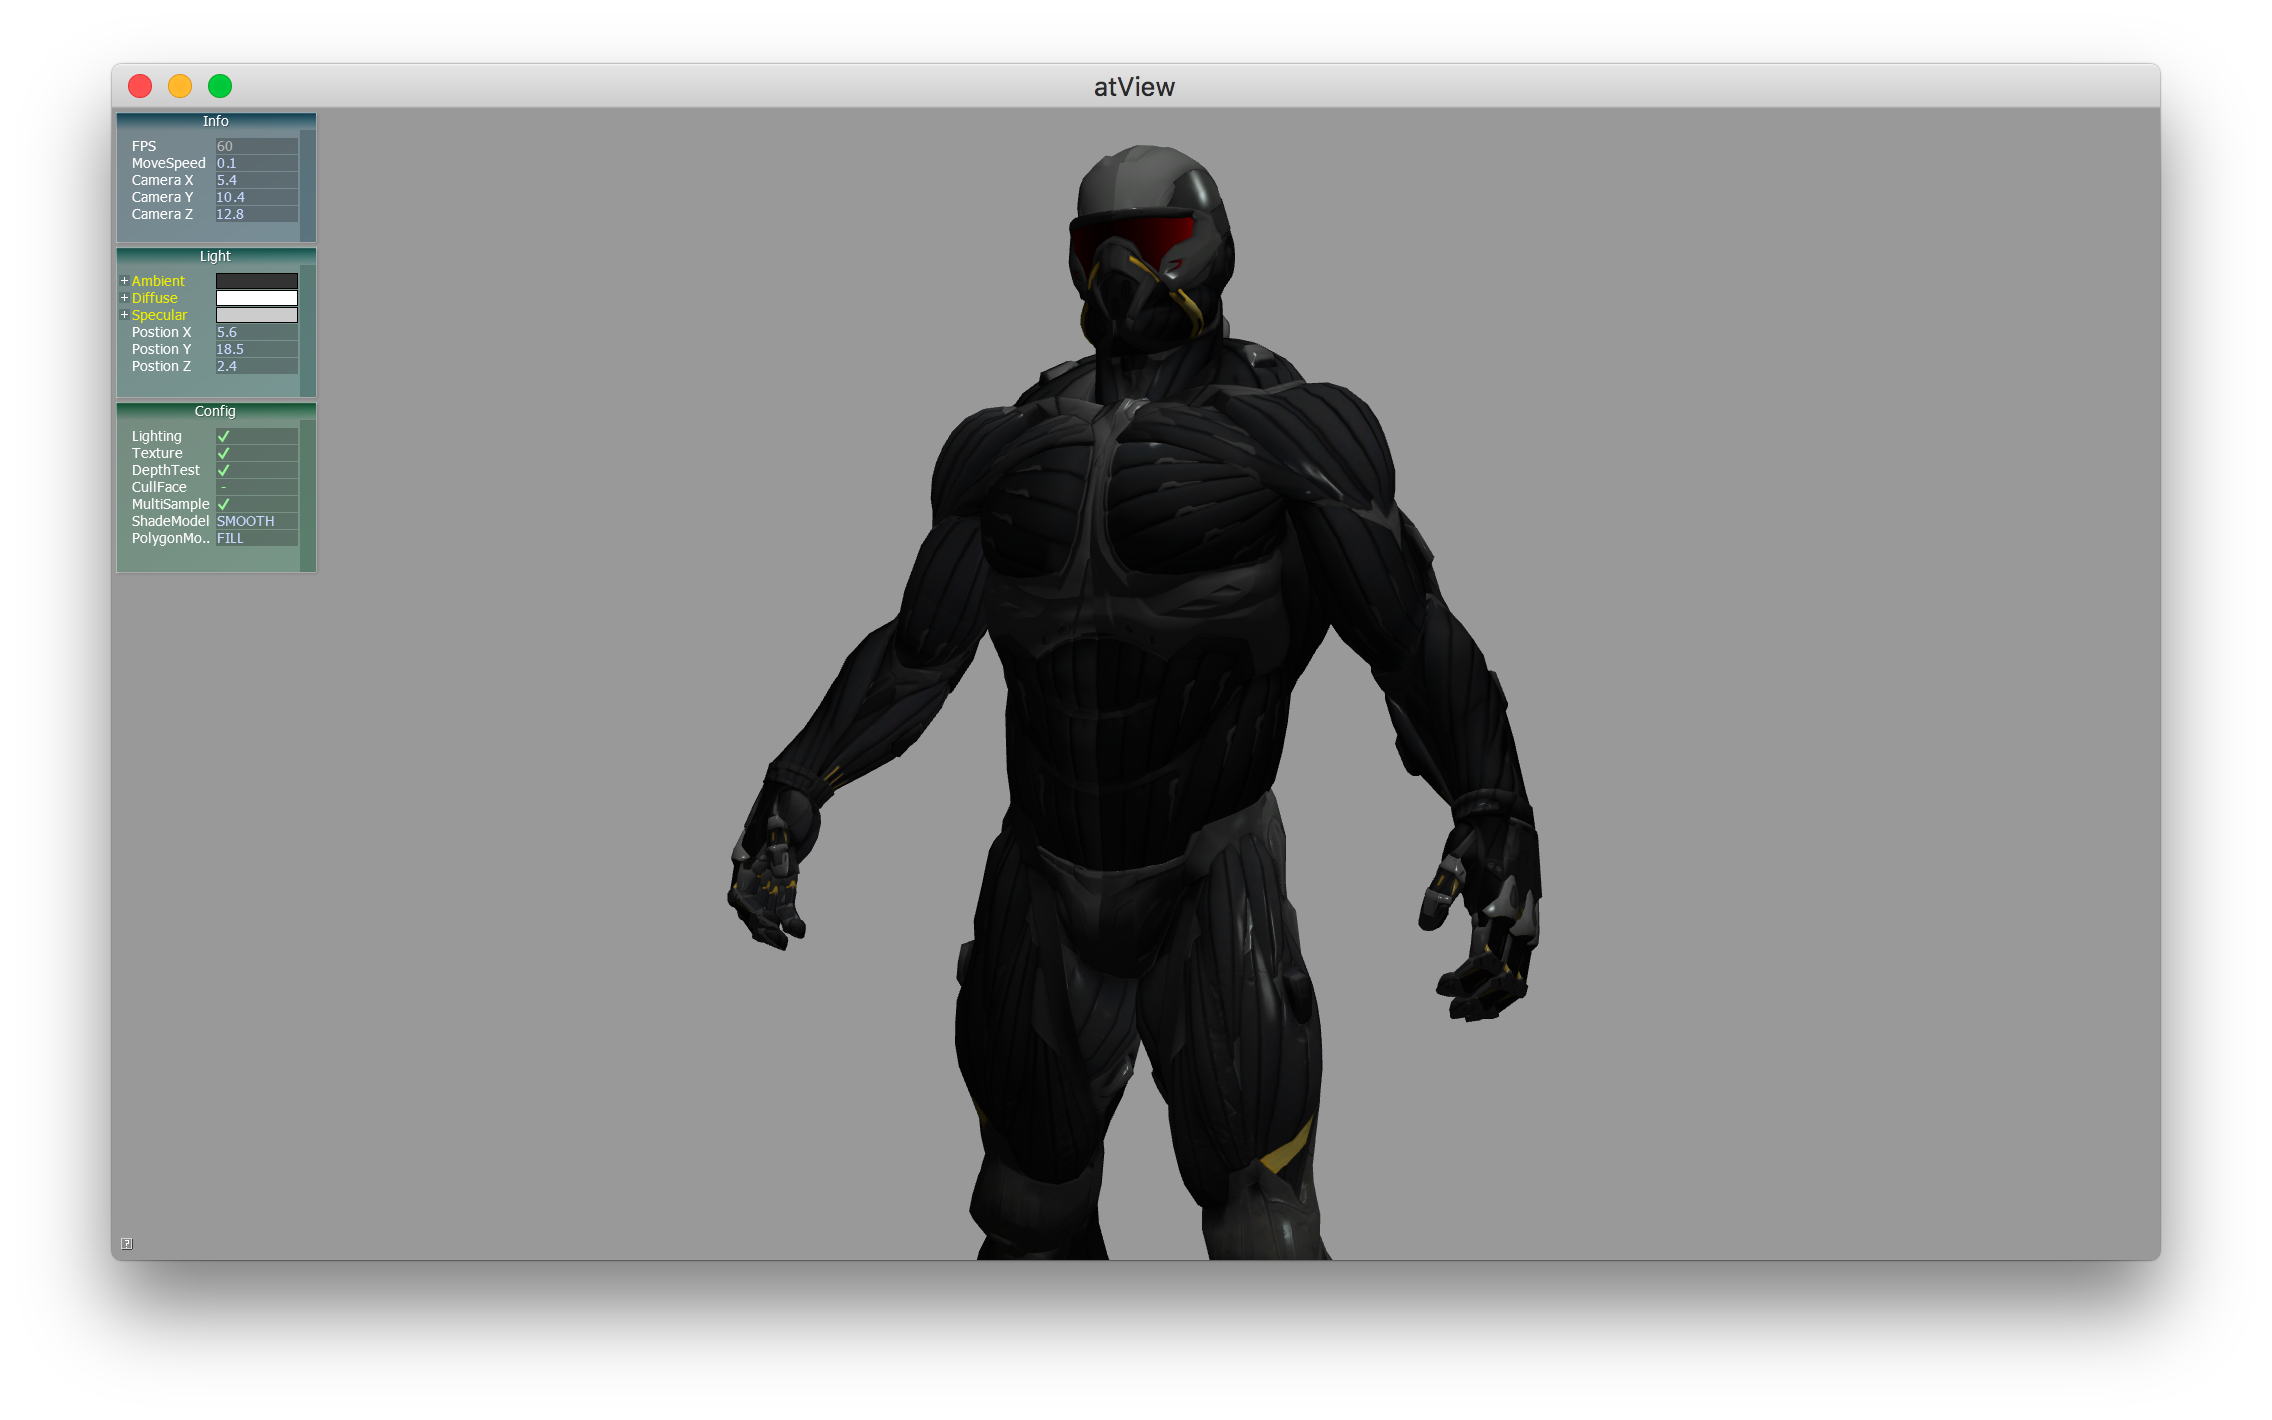
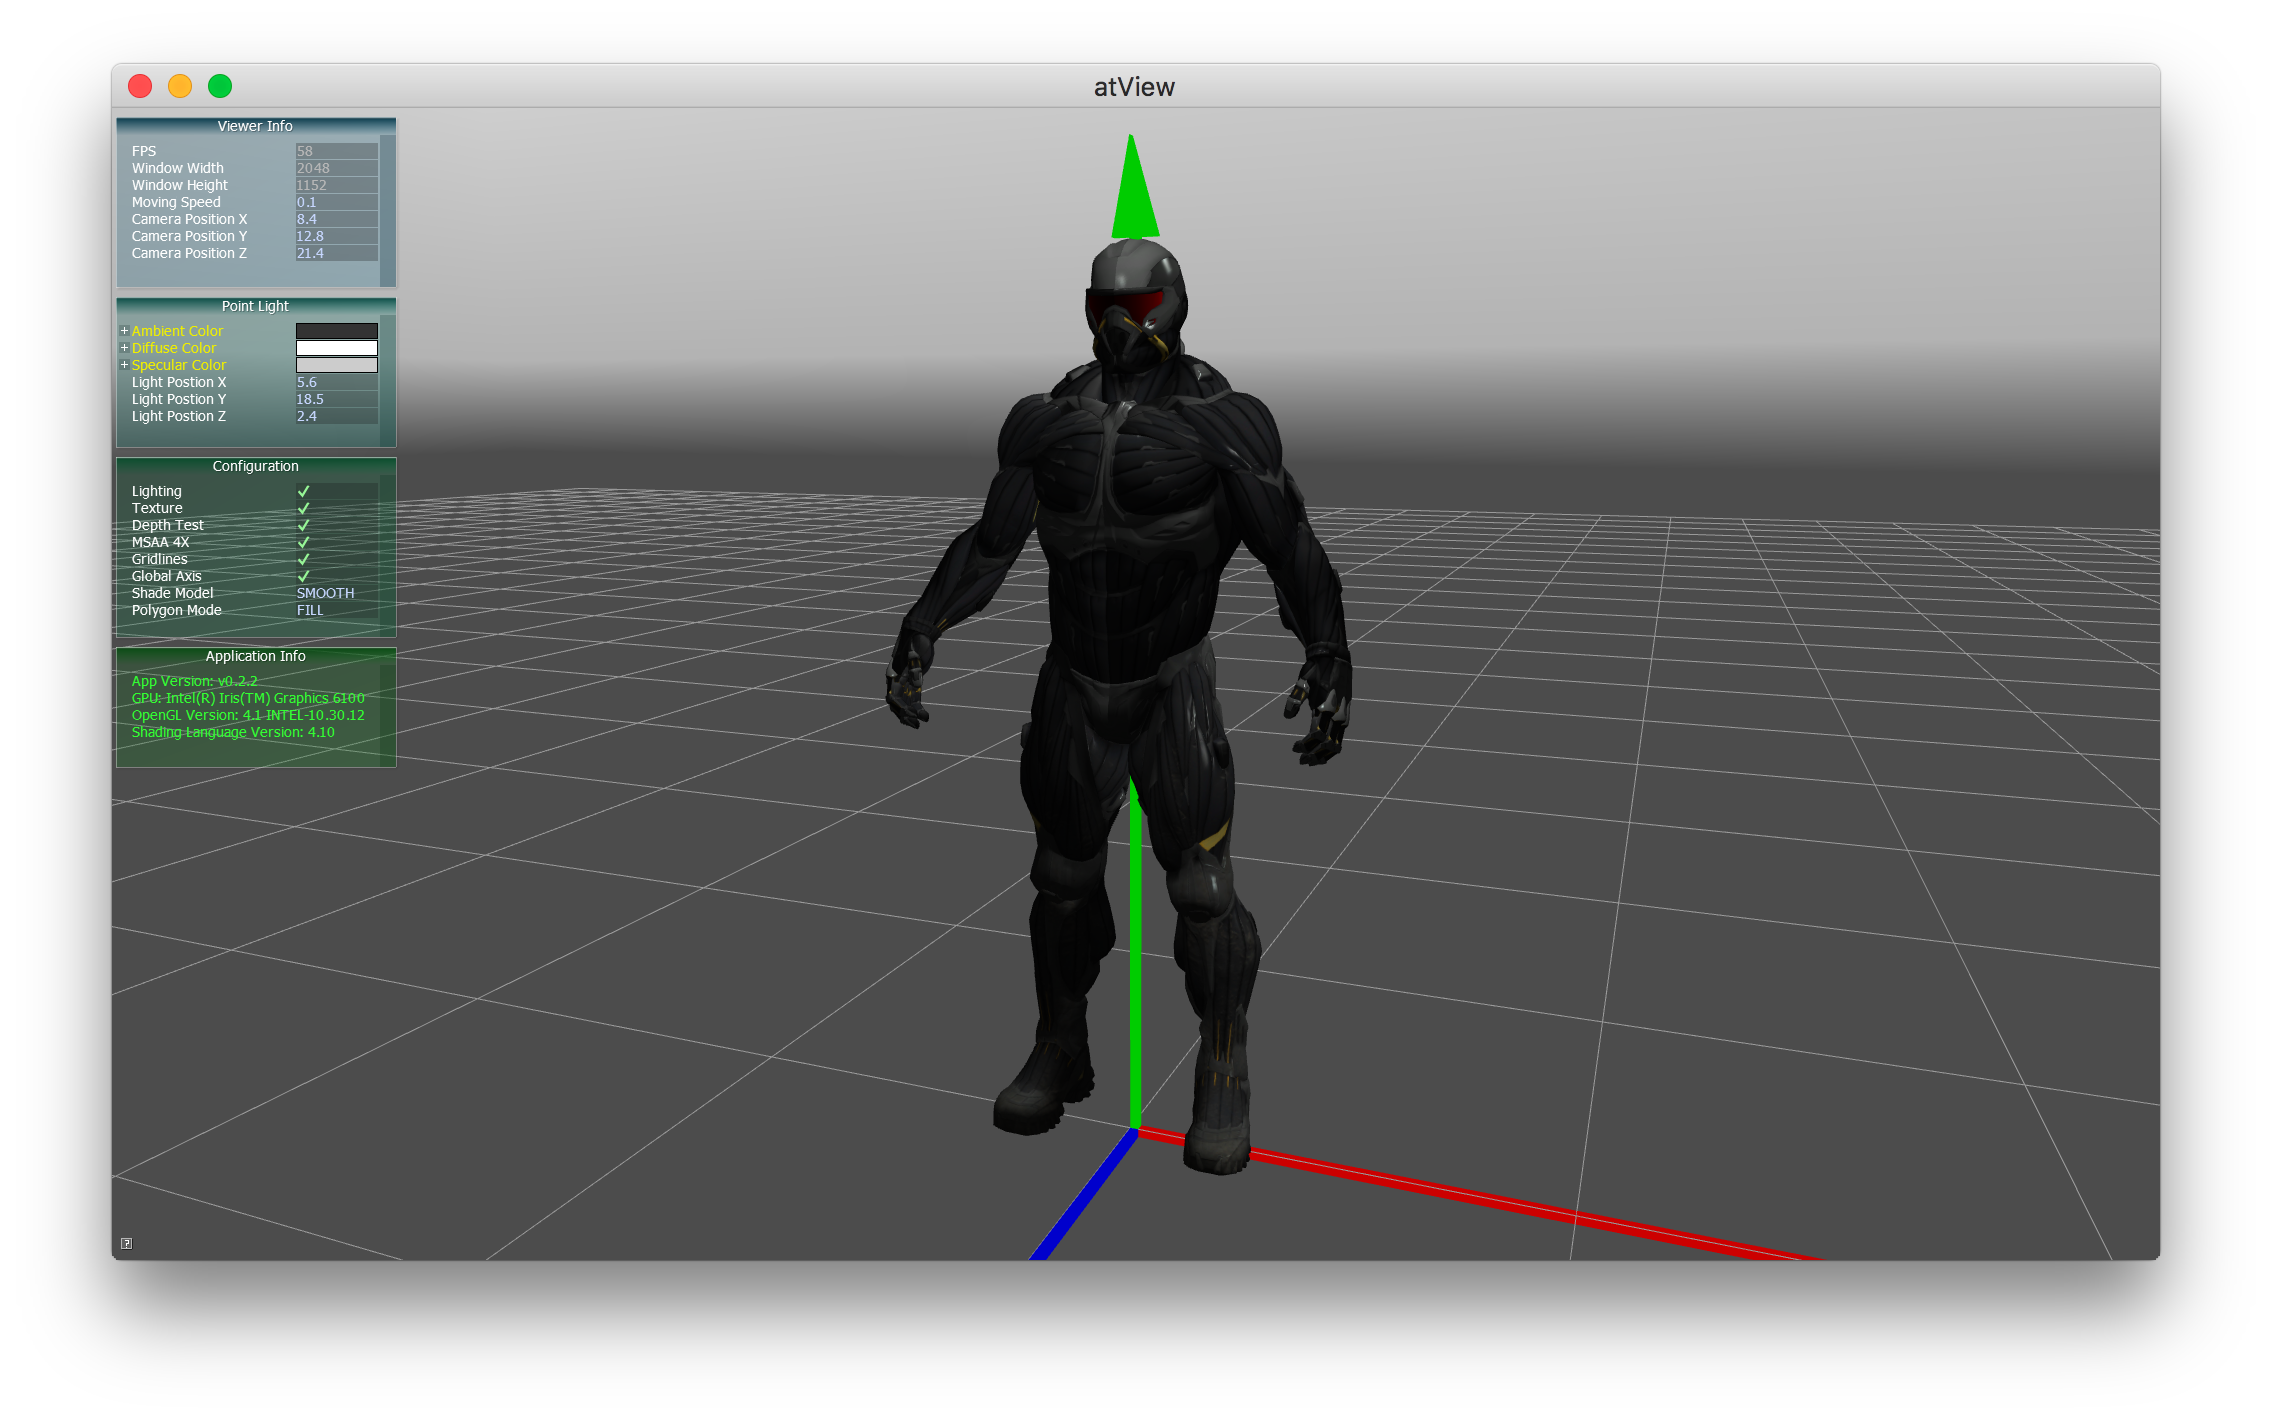
Thu Dec 28 19:41:37 CST 2017

diff --git a/README.md b/README.md
@@ -7,13 +7,13 @@ An cross-platform 3D model viewer for learning purpose, based on OpenGL, Assimp,
 * Supports reading 40+ 3D file formats, including FBX, DXF, Collada, Obj, X, PLY, 3DS.
 * Supports popular texture formats like PNG, BMP, JPEG, TIFF.
 * Supports diffuse map, specular map and normal map.
-* Provides some viewing options. You can toggle lighting, texture, MSAA and so on.
+* Supports custom skybox texture.
 * Both light color and light position can be adjusted on bars.
 * Press `<F10>` to take screenshots. (BMP only)
 
 ## Screenshots
 
-![](screenshots/rock.png)
+![](screenshots/gun.png)
 
 ![](screenshots/chair.png)
 
